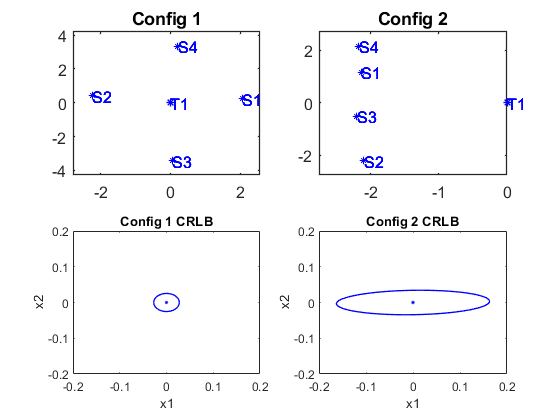
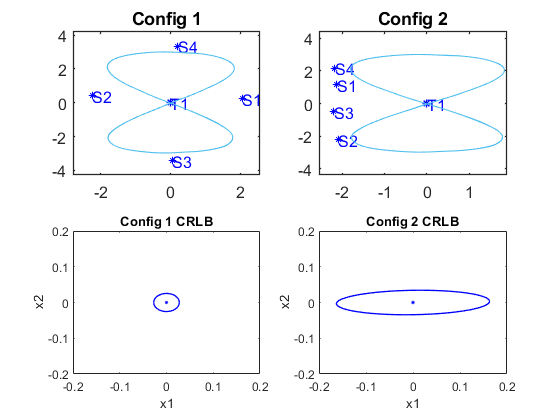
Add plots

diff --git a/code.m b/code.m
@@ -1,19 +1,15 @@
 
 
 
-%% round tourht
-%clear
+%% ground tourht
+clear
 load("RealG3.mat")
-plot(position(:,2),position(:,3))
-%clear
+gt = position;
+plot(gt(:,2),gt(:,3))
+
 %%
 %% Task 7.1 Calculate the normal distribution parameters
-clear
 load("calibration_data.mat")
-% we know where the car is
-% we know how long a beep should take to arrive
-% since the car is still, each measure should be 0.5 away from the next
-% using this we can get the error
 tdoa_errors = zeros(12,25);
 errors = zeros(8,24);
 
@@ -66,10 +62,9 @@ load("dataset.mat")
 sm = sensormod(@model1, [3 0 4 8])
 mic_range2 = 5:8;
 mic_range = 1:4;
-data = tphat(mic_range,:)' * 340
+data = tphat(mic_range,:)' * 343
 
 sm2 = sensormod(@model1, [3 0 4 8])
-
 
 th = [
 2056.2 246.1;   % 1
@@ -100,44 +95,51 @@ sm2.pe = ndist(zeros(4,1), R2); % maybe kaos
 
 %%
 figure(13)
-subplot(2,2,1)
+subplot(2,1,1)
 plot(sm)
+hold on 
+plot(gt(:,2),gt(:,3))
 title('Config 1')
-subplot(2,2,2)
+subplot(2,1,2)
 plot(sm2)
-title('Config 2')
-subplot(2,2,3)
+hold on
+plot(gt(:,2),gt(:,3))
 
-crlb(sm) 
+title('Config 2')
+subplot(2,1,1)
+hold on
+%crlb(sm)
+crlb2(sm, [], -1.5:.1:1.5, -2.5:.1:2.5, [1 2], 'rmse')
 title('Config 1 CRLB')
-xlim([-0.2 0.2])
-ylim([-0.2 0.2])
-subplot(2,2,4)
-crlb(sm2)
+subplot(2,1,2)
+% crlb(sm2)
+hold on
+crlb2(sm2, [], -1.5:.1:1.5, -2.5:.1:2.5, [1 2], 'rmse')
 title('Config 2 CRLB')
-xlim([-0.2 0.2])
-ylim([-0.2 0.2])
 % We see that config 1 is better since the crlb is better and rounder
 
 %%
 %% 7.5
 figure()
-% sm = exsensor('tdoa2',4,1)
-sm = sensormod(@model2, [2 0 3 8])
-sm.th = th * 0.001
-R = diag(err_tdoa_std(2:4,:));
-sm.pe = ndist(zeros(3,1), R) % maybe kaos
-%xnls = estimate(sm, data, 'thmask', ones(8,1));
+sm = sensormod(@model2, [2 0 3 8]);
+sm.th = th * 0.001;
+sm.x0 = [0 0];
+R1 = eye(3) * err_std(1); 
+R = diag(err_std(2:4));
+sm.pe = ndist(zeros(3,1), R1 - R); % maybe kaos
 
 TDOA_measurements = data(:,1) - data(:,2:4);
 subplot(2,1,1)
 
 for i=1:179
-    [xhat, shat] = wls(sm, sig(TDOA_measurements(i,:)));
+    %[xhat, shat] = wls(sm, sig(TDOA_measurements(i,:)));
+    [shat, xhat] = nls(sm, sig(TDOA_measurements(i,:)), 'thmask', zeros(sm.nn(4), 1));
     hold on
     plot(shat,'conf',90)
-    sm.x0 = [xhat.x];
+    sm.x0 = [xhat.sol];
 end
+hold on
+plot(gt(:,2),gt(:,3))
 title('TDOA with pairwise difference')
 
 
@@ -145,7 +147,7 @@ title('TDOA with pairwise difference')
 sm = sensormod(@model1, [3 0 4 8]);
 sm.th = th * 0.001;
 R = diag(err_std(mic_range,:));
-sm.pe = ndist(zeros(4,1), R); % maybe kaos
+sm.pe = ndist(zeros(4,1), R);
 
 r0 = mean(data(1,:));
 sm.x0 = [0 0 r0];
@@ -158,11 +160,12 @@ for i=1:length(data(:,1))
     data_points(i,:) = xhat.sol;
     plot(shat, 'conf', 90);
 end
+hold on
+plot(gt(:,2),gt(:,3))
 title('TDOA with bias state')
 hold on
 %%
 
-%xplot2(xnls, 'conf', 90);
 %% 7.6
 figure()
 direct_measurement = @(t,x,u,th) [x(1,:); x(2,:)];
@@ -174,15 +177,20 @@ m.pe=eye(2) * 0.1;
 xhat1 = ekf(m, sig(data_points(:, 1:2))); % Time - varying
 subplot(2,2,1)
 xplot2(xhat1, [1 2]);
+hold on
+plot(gt(:,2),gt(:,3))
 title('EKF artificial measurements CV')
 
 sm = sensormod(direct_measurement, [2 0 2 0]);
 m = exmotion('ca2d');
 m = m.addsensor(sm);
 m.pe=eye(2) * 0.1;
+m.pv = m.pv * 0.1;
 xhat1 = ekf(m, sig(data_points(:, 1:2))); % Time - varying
 subplot(2,2,2)
 xplot2(xhat1, [1 2]);
+hold on
+plot(gt(:,2),gt(:,3))
 title('EKF artificial measurements CA')
 
 %%
@@ -191,59 +199,64 @@ title('EKF artificial measurements CA')
 TDOA_measurements = (data(:, 1) - data(:, 2:4));
 sm = sensormod(@model2, [2 0 3 8]);
 
-%R = diag(err_std(mic_range,:)); % 4 har lowest covariance choose that
+R1 = diag(err_std(1));
 R = diag(err_tdoa_std(2:4));
 mm = exmotion('cv2d', 0.5);
 mms = addsensor(mm, sm);
-mms.pe = ndist(zeros(3,1), R(1:3,1:3)); % maybe kaos
+mms.pe = ndist(zeros(3,1), R); % maybe kaos
 mms.pv = mms.pv * 0.1;
 mms.th = th * 0.001;
-%mms.p0 = ndist(zeros(3,1), R(1:3,1:3));
-%mms.pe=sm.pe
 xhat1 = ekf(mms, sig(TDOA_measurements)); % Time - varying
 subplot(2,2,3)
 xplot2(xhat1)
-title('EKF constant velocity')
+hold on
+plot(gt(:,2),gt(:,3))
+
+title('EKF pairwise difference measure CV')
 
 %%
 TDOA_measurements = (data(:, 1) - data(:, 2:4));
 sm = sensormod(@model2, [2 0 3 8]);
 
-%R = diag(err_std(mic_range,:)); % 4 har lowest covariance choose that
 R = diag(err_tdoa_std(2:4));
 mm = exmotion('ca2d', 0.5);
 mms = addsensor(mm, sm);
-mms.pe = ndist(zeros(3,1), R(1:3,1:3)); % maybe kaos
+mms.pe = ndist(zeros(3,1), R(1:3,1:3));
 mms.pv = mms.pv * 0.1;
 mms.th = th * 0.001;
-xhat1 = ekf(mms, sig(TDOA_measurements)); % Time - varying
+xhat1 = ekf(mms, sig(TDOA_measurements));
 subplot(2,2,4)
 xplot2(xhat1)
-title('EKF constant acceleration')
+hold on
+plot(gt(:,2),gt(:,3))
+
+title('EKF pairwise difference measure CA')
 
 %% 7.7 
 figure(99)
-err = 1;
-sens_mean = 100;
-sens_std = 500;
-th_bad = th + sens_mean + sens_std.*randn(8,1)';
-
-TDOA_measurements = (data(:, 1) - data(:, 2:4));
-sm = sensormod(@model2, [2 0 3 8]);
-
-%R = diag(err_std(mic_range,:)); % 4 har lowest covariance choose that
-R = diag(err_tdoa_std(2:4));
-mm = exmotion('cv2d', 0.5);
-mms = addsensor(mm, sm);
-mms.pe = ndist(zeros(3,1), R(1:3,1:3)); % maybe kaos
-mms.pv = mms.pv * 0.1;
-mms.th = th_bad * 0.001;
-xhat1 = ekf(mms, sig(TDOA_measurements)); % Time - varying
-clf("reset")
-xplot2(xhat1)
-hold on
-plot(position(:,2),position(:,3))
-title('EKF constant acceleration')
+clf('reset')
+noises = [0, 2,5,10,20,30,50,70,100] * 5
+for i=1:9
+    err = 1;
+    sens_std = noises(i);
+    
+    th_bad = th + sens_std.*randn(8,1)';
+    TDOA_measurements = (data(:, 1) - data(:, 2:4));
+    sm = sensormod(@model2, [2 0 3 8]);
+    R1 = eye(3) * err_std(1);
+    R = diag(err_std(2:4));
+    mm = exmotion('cv2d', 0.5);
+    mms = addsensor(mm, sm);
+    mms.pe = ndist(zeros(3,1), R1 + R);
+    mms.pv = mms.pv * 0.1;
+    mms.th = th_bad * 0.001;
+    xhat1 = ekf(mms, sig(TDOA_measurements));
+    subplot(3,3,i)
+    xplot2(xhat1)
+    hold on
+    plot(gt(:,2),gt(:,3))
+    title(sprintf('N(0,%d)',sens_std))
+end
 
  
 

diff --git a/model2.m b/model2.m
@@ -1,5 +1,5 @@
 function y = model2(t, x, u, th)
-   y = [sqrt((x(1,:)-th(1)).^2+(x(2,:)-th(2)).^2) - sqrt((x(1,:)-th(3)).^2+(x(2,:)-th(4)).^2);   
-        sqrt((x(1,:)-th(1)).^2+(x(2,:)-th(2)).^2) - sqrt((x(1,:)-th(5)).^2+(x(2,:)-th(6)).^2);   
+   y = [sqrt((x(1,:)-th(1)).^2+(x(2,:)-th(2)).^2) - sqrt((x(1,:)-th(3)).^2+(x(2,:)-th(4)).^2);
+        sqrt((x(1,:)-th(1)).^2+(x(2,:)-th(2)).^2) - sqrt((x(1,:)-th(5)).^2+(x(2,:)-th(6)).^2);
         sqrt((x(1,:)-th(1)).^2+(x(2,:)-th(2)).^2) - sqrt((x(1,:)-th(7)).^2+(x(2,:)-th(8)).^2)];
 end
